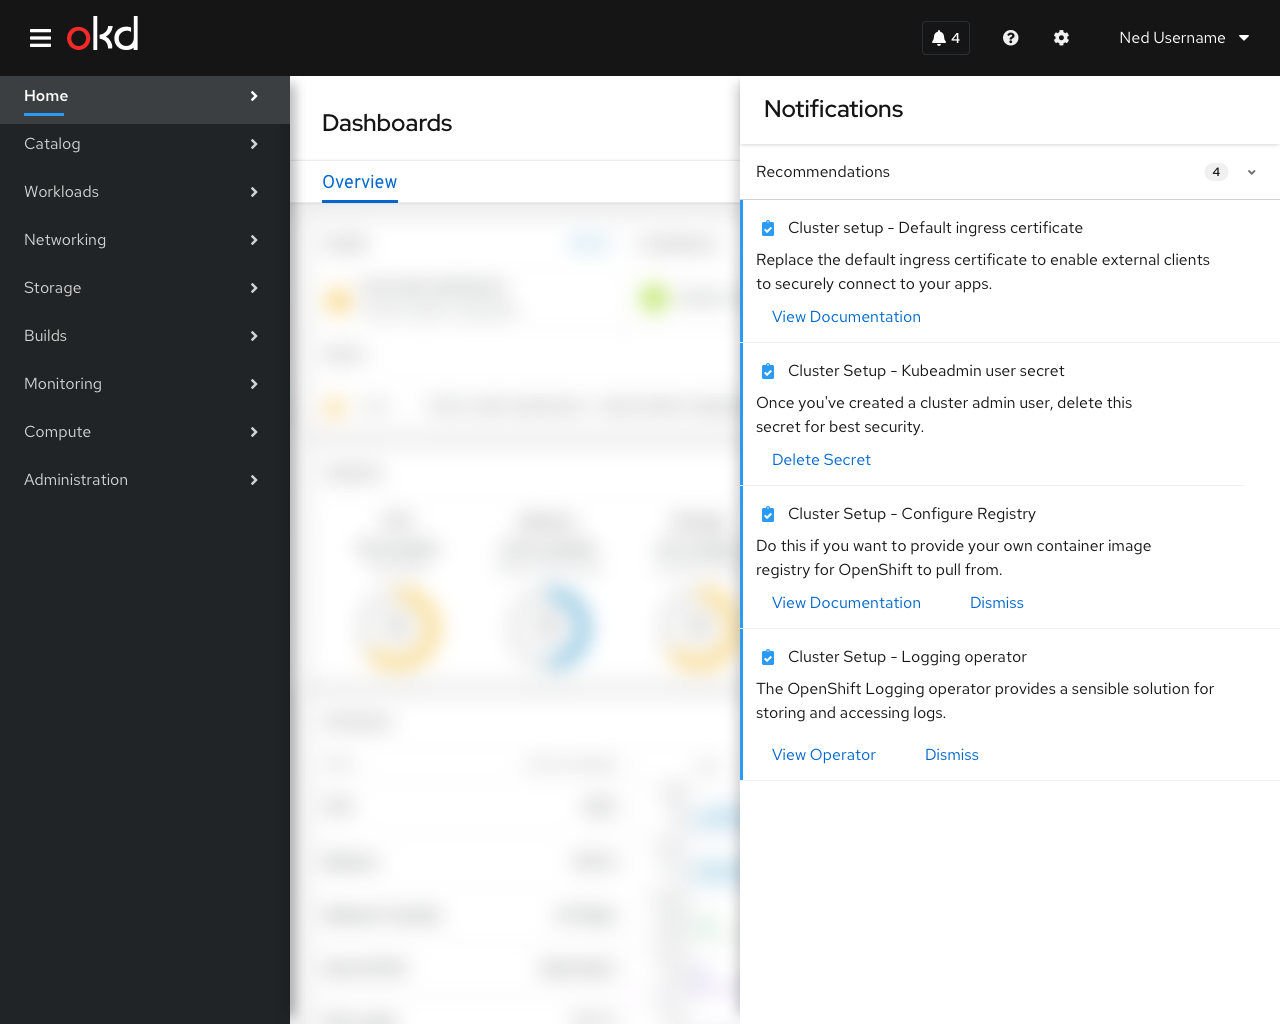
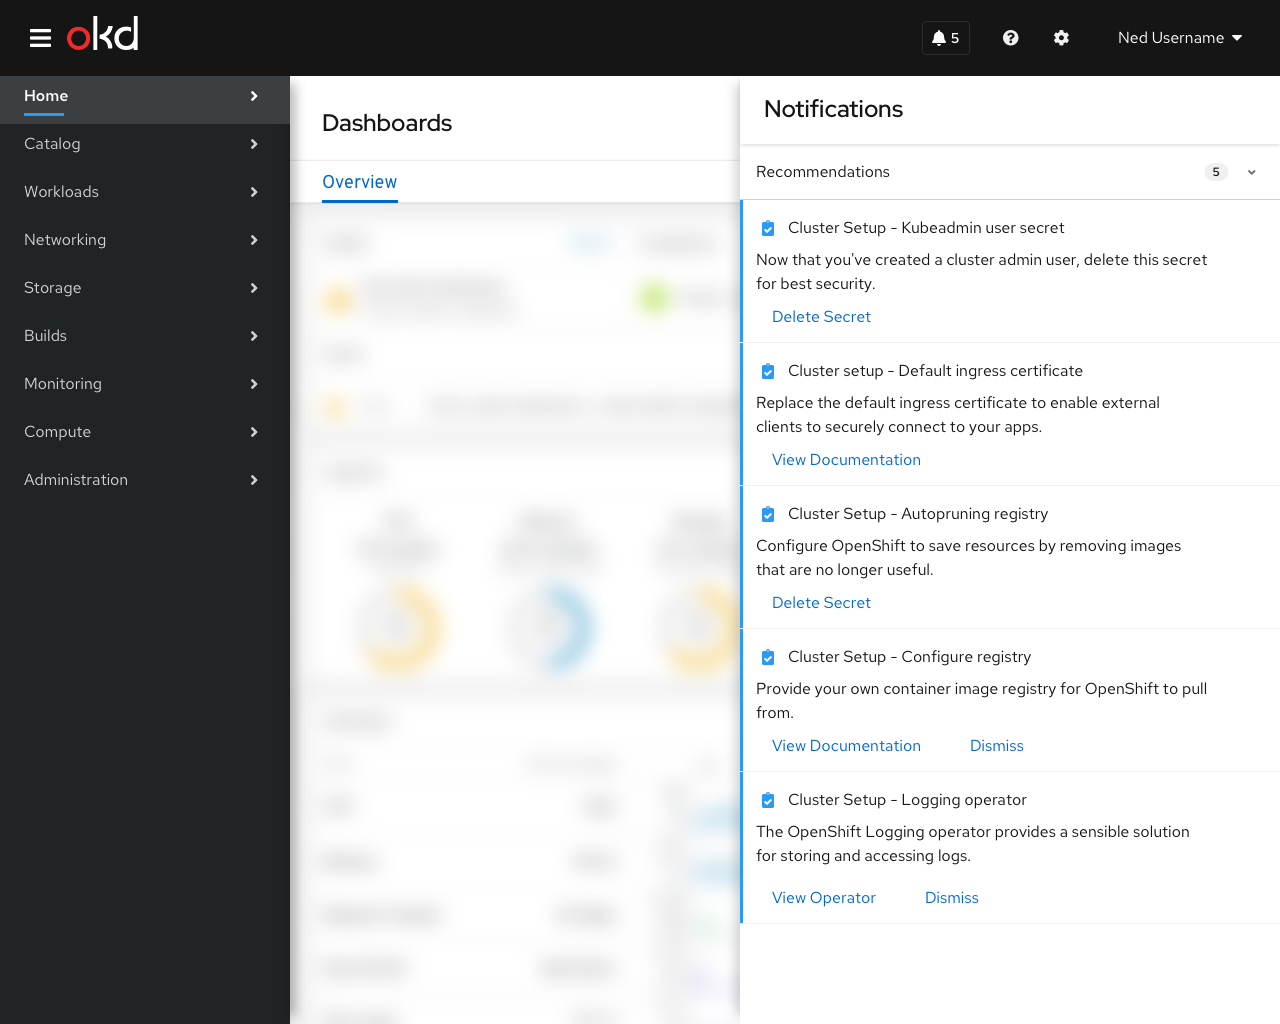
Update with autopruning and hint details

diff --git a/designs/administrator/future-openshift/cluster-setup/index.md b/designs/administrator/future-openshift/cluster-setup/index.md
@@ -7,7 +7,7 @@ version: 4.X
 
 ## First time use
 ![](img/setup-hint.png)
-When the user first signs into OpenShift after installation they are presented with a hint block that directs them to complete the cluster setup steps. Clicking on the action button in the hint should open the notification drawer.
+When the user first signs into OpenShift after installation they are presented with a hint block that directs them to complete the cluster setup steps. Clicking on the action button in the hint should open the notification drawer. Once the notification drawer has been opened, either with the action button or from the masthead, the hint pattern is removed.
 
 
 ## Behavior
@@ -25,9 +25,13 @@ Cluster setup items appear in the "recommendations" section of the notification 
 - Default Ingress Certificate
   - Replace the default ingress certificate to enable external clients to securely connect to your apps
   - [This action should link to docs for ingress certificates](https://docs.openshift.com/container-platform/4.5/security/certificates/replacing-default-ingress-certificate.html)
+- Autopruning Registry
+  - "Configure OpenShift to save resources by removing images that are no longer useful.""
+  - [This action should link to docs for autopruning](https://docs.openshift.com/container-platform/4.5/applications/pruning-objects.html#pruning-images_pruning-objects)
 - Delete kubeadmin user secret
-  - "Once you've created a cluster admin user, delete this secret for best security"
+  - "Now that you've created a cluster admin user, delete this secret for best security."
   - The action on this item should take the user to the secrets page filtered to show only the "kubeadmin"secret.
+  - **Note: This recommendation should appear only after the cluster contains at least one user with Cluster Administrator permissions:**
 
 ### Optional Steps
 ![](img/setup-optional.png)
